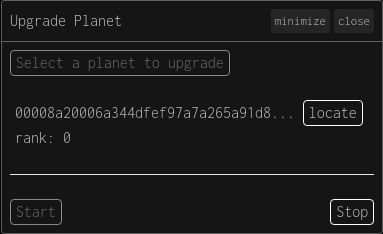
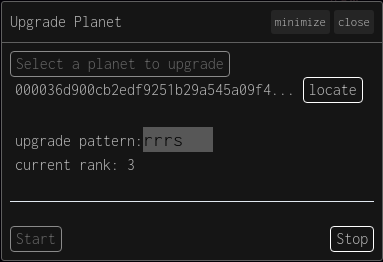
add upgrading pattern option

diff --git a/content/productivity/upgrade-planet/upgrade_planet.js b/content/productivity/upgrade-planet/upgrade_planet.js
@@ -13,14 +13,12 @@ import {
 } from 'https://unpkg.com/htm/preact/standalone.module.js';
 
 import {
-  canStatUpgrade,
   canPlanetUpgrade,
   getPlanetRank,
 } from 'https://plugins.zkga.me/utils/utils.js';
 
 import {
   PlanetType,
-  UpgradeBranchName,
   SpaceType
 } from "https://cdn.skypack.dev/@darkforest_eth/types"
 
@@ -154,22 +152,21 @@ function sendSilver(planet, rankSpan) {
 
 }
 
-function upgradePlanet(target) {
+function upgradePlanetPattern(planet, pattern) {
+  const rank = planet.upgradeState.reduce((a, b) => a + b, 0);
+  if (pattern.length <= rank) return;
+  const upgradeBranch = ["d", "r", "s"].indexOf(pattern[rank]);
+  df.upgrade(planet.locationId, upgradeBranch);
+}
+
+function upgradePlanet(target, patternInput) {
   let planet = df.getPlanetWithId(target.locationId);
   if (isUpgrading(planet)) {
     return;
   }
 
   if (planet && canPlanetUpgrade(planet)) {
-    if (canStatUpgrade(planet, UpgradeBranchName.Defense)) {
-      df.upgrade(planet.locationId, UpgradeBranchName.Defense)
-    } else if (canStatUpgrade(planet, UpgradeBranchName.Range)) {
-      df.upgrade(planet.locationId, UpgradeBranchName.Range)
-    } else if (canStatUpgrade(planet, UpgradeBranchName.Speed)) {
-      df.upgrade(planet.locationId, UpgradeBranchName.Speed)
-    } else {
-
-    }
+    upgradePlanetPattern(planet, ([...patternInput.value]));
   }
 }
 
@@ -191,6 +188,7 @@ function App() {
   
   function select() {
     setTarget(selectedPlanet);
+    rankSpan.innerHTML = 'rank: ' + getPlanetRank(selectedPlanet);
   }
 
   function stop() {
@@ -211,7 +209,7 @@ function App() {
     selectBtn.style = 'opacity: 1';
     startBtn.disabled = false;
     startBtn.style = 'opacity: 1';
-    rankSpan.innerHTML = '';
+    patternInput.disabled = false;
   }
 
   function start() {
@@ -222,6 +220,7 @@ function App() {
     selectBtn.style = 'opacity: 0.5';
     startBtn.disabled = true;
     startBtn.style = 'opacity: 0.5';
+    patternInput.disabled = true;
 
     if (sendIntervalId != '') {
       clearInterval(sendIntervalId);
@@ -232,8 +231,8 @@ function App() {
     if (upgradeIntervalId != '') {
       clearInterval(upgradeIntervalId);
     }
-    upgradeIntervalId = setInterval(upgradePlanet, 0.5 * 60 * 1000, target);
-    upgradePlanet(target);
+    upgradeIntervalId = setInterval(upgradePlanet, 0.5 * 60 * 1000, target, patternInput);
+    upgradePlanet(target, patternInput);
   }
 
   function locate() {
@@ -246,10 +245,13 @@ function App() {
         <button id=selectBtn onClick=${select}>Select a planet to upgrade</button>
       </div>
       ${allowUpgrade(target) ? html`
-        <br /><span style=${{ marginLeft: '5px' }}>${planetShort(target.locationId)}   </span>
-        <button onClick=${locate}>locate</button>
-        <br /><span style=${{ marginLeft: '5px' }} id=rankSpan></span>`
-         : html`<br /><span style=${{ marginLeft: '5px' }}>No planet selected or selected planet cannot be upgraded</span>`
+      <span style=${{ marginLeft: '5px' }}>${planetShort(target.locationId)}</span>
+      <button onClick=${locate}>locate</button><br />
+      <br /><span style=${{ marginLeft: '5px' }} id=patternSpan>upgrade pattern: 
+      <input type="text" value="rrrrs" id="patternInput" style="color:black;font-size:20px;width:70px;height:25px;marginLeft: 3px" title='For example, if the pattern is "rrrsd", a rank 3 planet that can upgrade will choose to upgrade the speed branch' ></input>
+      </span>
+      <br /><span style=${{ marginLeft: '5px' }} id=rankSpan></span>`
+       : html`<br /><span style=${{ marginLeft: '5px' }}>No planet selected or selected planet cannot be upgraded</span>`
       }
       <br />
       <br />
